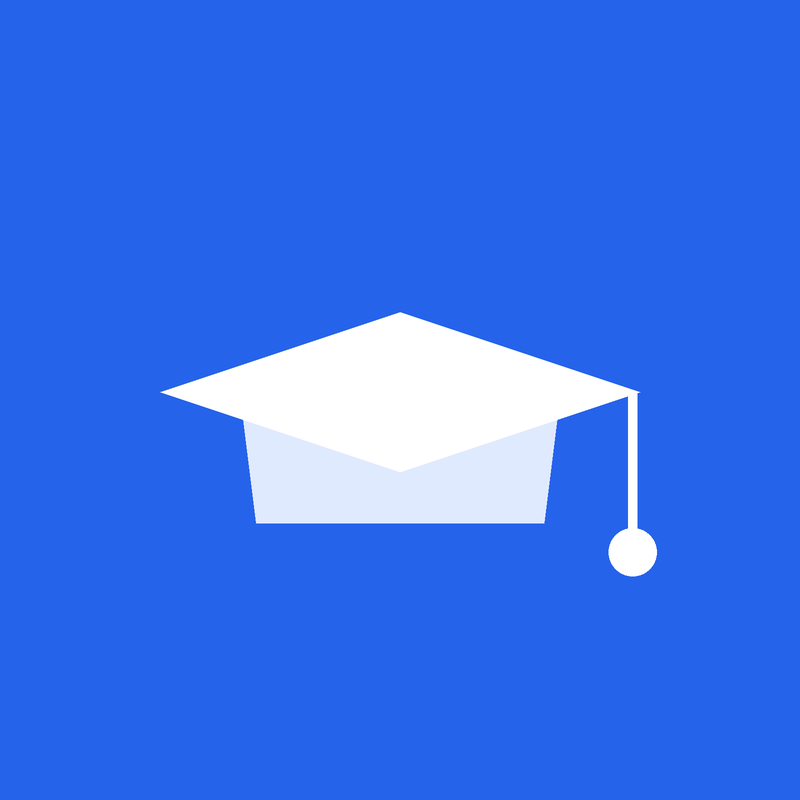
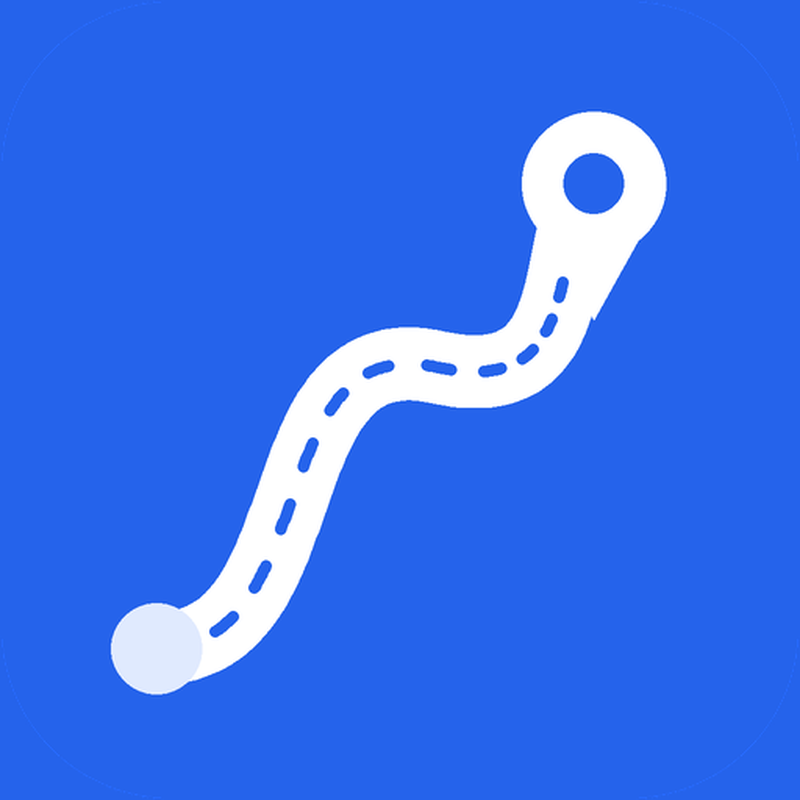
로고 교체: 로드맵 핀(길+도착 핀) — PWA 아이콘·파비콘·애플터치·maskable, 상단 바·홈 히어로 이미지, 이메일 프로필 사진 재생성

Changed region(s): [[0.125, 0.125, 0.8438, 0.875]]

diff --git a/src/nav/TopNav.tsx b/src/nav/TopNav.tsx
@@ -45,7 +45,7 @@ export default function TopNav() {
     <header className="no-print sticky top-0 z-40 border-b border-gray-200 bg-white/90 backdrop-blur">
       <div className="mx-auto flex max-w-6xl items-center gap-1 overflow-x-auto px-3 py-2">
         <button onClick={() => navigate('/')} className="mr-1 flex shrink-0 items-center gap-1.5 rounded-lg px-1.5 py-1 text-sm font-bold text-gray-900">
-          🎓 <span className="hidden sm:inline">{t('미국 대입 로드맵', 'US College Roadmap')}</span>
+          <img src="/icons/favicon-64.png" alt="" width={20} height={20} className="h-5 w-5 rounded-md" /> <span className="hidden sm:inline">{t('미국 대입 로드맵', 'US College Roadmap')}</span>
         </button>
         {links.map((l) => (
           <button

diff --git a/src/App.tsx b/src/App.tsx
@@ -508,7 +508,7 @@ function AppRoutes() {
     return (
       <Screen>
         <div className="py-10 text-center">
-          <p className="text-5xl">🎓</p>
+          <img src="/icons/icon-192.png" alt="" width={72} height={72} className="mx-auto h-[72px] w-[72px] rounded-2xl shadow-sm" />
           <h1 className="mt-5 text-2xl font-bold text-gray-900">{t('미국 대학 입시 로드맵', 'US College Roadmap')}</h1>
           <p className="mt-3 text-sm leading-relaxed text-gray-500">
             {t('학년·전공·목표 학교에 맞는 시즌별 체크리스트로', 'Season-by-season checklists tailored to your grade, major and target schools —')}
